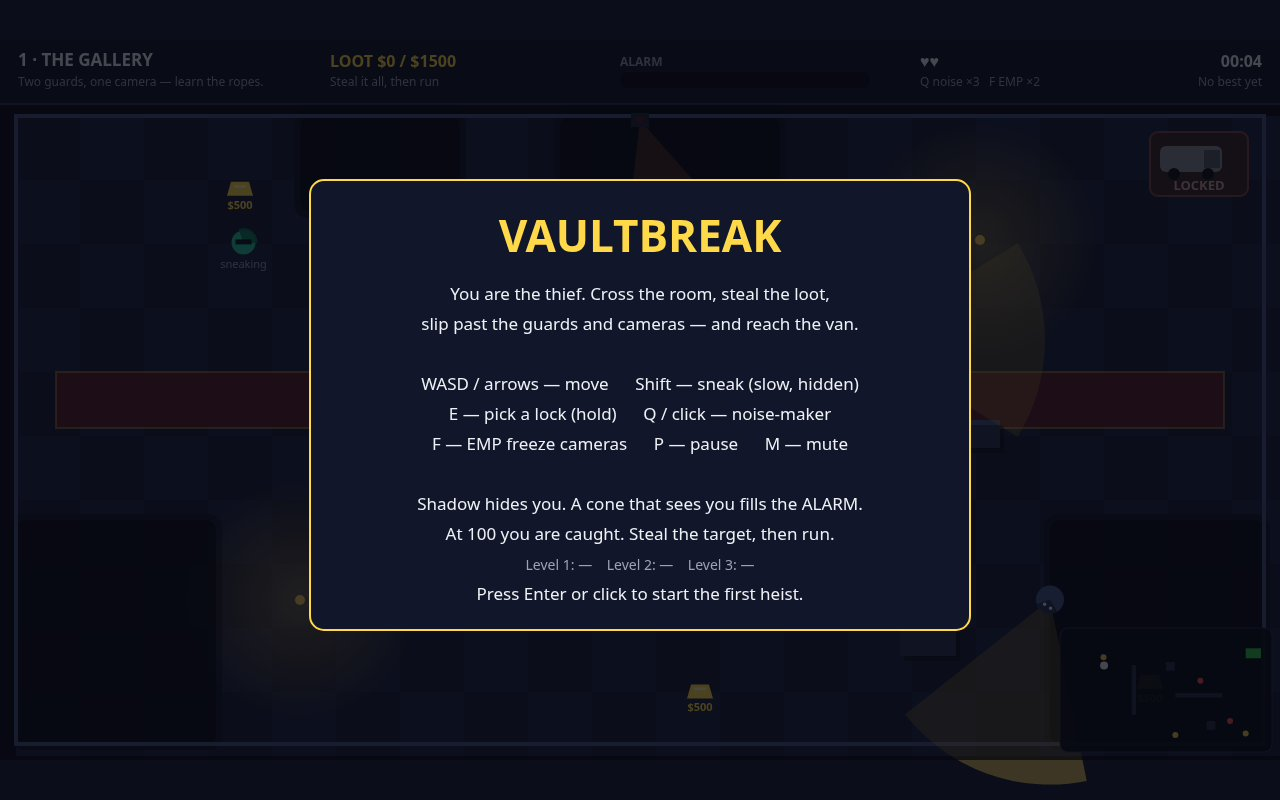
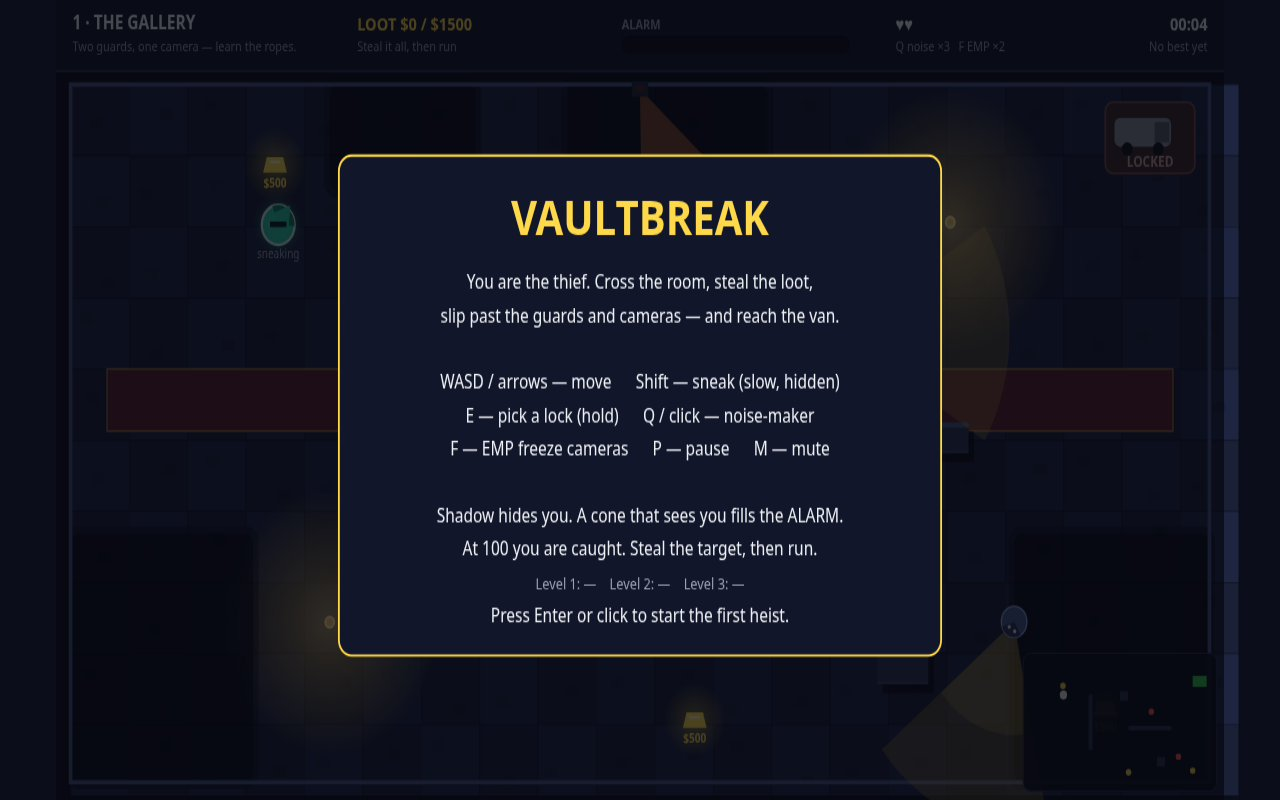
VAULTBREAK v2: polish + L3 fairness

diff --git a/game/src/render.js b/game/src/render.js
@@ -2,7 +2,7 @@
 // The 1280x720 playfield is scaled to fit the window and centred. Nothing
 // here changes the world; it only reads it.
 
-import { FIELD, ROOM, PALETTE, FONT } from './config.js';
+import { FIELD, ROOM, PALETTE, FONT, PLAYER } from './config.js';
 import { laserIsOn } from './loot.js';
 import { formatTime } from './alarm.js';
 import { pointInRect } from './geom.js';
@@ -69,13 +69,20 @@ export function createRenderer(canvas) {
 
   function drawFloor(world) {
     const level = world.level;
-    // Checkerboard stone floor.
+    // Checkerboard stone floor, with a faint grout line and a speckle of
+    // darker stone in each tile so the floor reads as texture, not flat.
     const tile = 64;
     for (let y = ROOM.y; y < ROOM.y + ROOM.height; y += tile) {
       for (let x = ROOM.x; x < ROOM.x + ROOM.width; x += tile) {
         const even = ((x - ROOM.x) / tile + (y - ROOM.y) / tile) % 2 === 0;
         ctx.fillStyle = even ? PALETTE.floor : PALETTE.floorAlt;
         ctx.fillRect(x, y, tile, tile);
+        const h = ((x * 31 + y * 17) % 97) / 97;
+        ctx.fillStyle = `rgba(0,0,0,${0.05 + h * 0.08})`;
+        ctx.fillRect(x + 8 + h * 30, y + 10 + ((x * 13 + y * 7) % 40), 14, 9);
+        ctx.strokeStyle = 'rgba(0,0,0,0.18)';
+        ctx.lineWidth = 1;
+        ctx.strokeRect(x + 0.5, y + 0.5, tile, tile);
       }
     }
     // A carpet runner down the middle of the room.
@@ -84,18 +91,25 @@ export function createRenderer(canvas) {
     ctx.strokeStyle = 'rgba(255,217,74,0.35)';
     ctx.lineWidth = 2;
     ctx.strokeRect(ROOM.x + 40, 332, ROOM.width - 80, 56);
-    // Lamp pools: warm light on the floor.
+    // Lamp pools: warm light on the floor, bright at the bulb and fading
+    // out — the warm pools are what make the dark shadow lanes read as
+    // safe by contrast.
     for (const lamp of level.lamps) {
-      const g = ctx.createRadialGradient(lamp.x, lamp.y, 8, lamp.x, lamp.y, lamp.r);
-      g.addColorStop(0, 'rgba(245,201,92,0.30)');
+      const g = ctx.createRadialGradient(lamp.x, lamp.y, 4, lamp.x, lamp.y, lamp.r);
+      g.addColorStop(0, 'rgba(255,214,110,0.55)');
+      g.addColorStop(0.45, 'rgba(245,201,92,0.30)');
       g.addColorStop(1, 'rgba(245,201,92,0)');
       ctx.fillStyle = g;
       ctx.beginPath();
       ctx.arc(lamp.x, lamp.y, lamp.r, 0, Math.PI * 2);
       ctx.fill();
+      ctx.fillStyle = '#ffe9a8';
+      ctx.beginPath();
+      ctx.arc(lamp.x, lamp.y, 6, 0, Math.PI * 2);
+      ctx.fill();
       ctx.fillStyle = PALETTE.lamp;
       ctx.beginPath();
-      ctx.arc(lamp.x, lamp.y, 5, 0, Math.PI * 2);
+      ctx.arc(lamp.x, lamp.y, 3.5, 0, Math.PI * 2);
       ctx.fill();
     }
     // Shadow patches: the safe lanes, dark and obvious.
@@ -153,6 +167,16 @@ export function createRenderer(canvas) {
       const bob = Math.sin(world.time * 2 + loot.bob) * 2;
       const x = loot.x;
       const y = loot.y + bob;
+      // A soft glow under the loot so gold, gems and the vault read as
+      // the goal from across the room.
+      const glowColor = loot.kind === 'vault' ? '155,232,255' : loot.kind === 'gem' ? '92,225,230' : '255,217,74';
+      const glow = ctx.createRadialGradient(x, y, 4, x, y, 34);
+      glow.addColorStop(0, `rgba(${glowColor},0.35)`);
+      glow.addColorStop(1, `rgba(${glowColor},0)`);
+      ctx.fillStyle = glow;
+      ctx.beginPath();
+      ctx.arc(x, y, 34, 0, Math.PI * 2);
+      ctx.fill();
       if (loot.kind === 'gold') {
         ctx.fillStyle = PALETTE.gold;
         ctx.beginPath();
@@ -263,12 +287,15 @@ export function createRenderer(canvas) {
 
   function drawWalls(world) {
     for (const w of world.level.walls) {
-      ctx.fillStyle = 'rgba(0,0,0,0.4)';
-      ctx.fillRect(w.x + 4, w.y + 5, w.w, w.h);
+      // A deeper drop shadow lifts the walls off the floor.
+      ctx.fillStyle = 'rgba(0,0,0,0.55)';
+      ctx.fillRect(w.x + 6, w.y + 8, w.w, w.h);
       ctx.fillStyle = PALETTE.wall;
       ctx.fillRect(w.x, w.y, w.w, w.h);
       ctx.fillStyle = PALETTE.wallTop;
       ctx.fillRect(w.x, w.y, w.w, 5);
+      ctx.fillStyle = 'rgba(255,255,255,0.06)';
+      ctx.fillRect(w.x, w.y + w.h - 3, w.w, 3);
     }
     // The room's outer walls.
     ctx.strokeStyle = PALETTE.wallTop;
@@ -277,12 +304,15 @@ export function createRenderer(canvas) {
   }
 
   function drawWatchers(world) {
-    // Camera cones first (under the guards), then guard cones.
+    // Camera cones first (under the guards), then guard cones. Each cone
+    // gets a brighter core near the watcher so the dangerous half of the
+    // cone reads at a glance, not just its edge.
     for (const camera of world.cameras) {
       if (camera.frozen > 0) {
         cone(camera.x, camera.y, camera.angle, 215, 0.42, '#8b93a3', 0.12);
       } else {
         cone(camera.x, camera.y, camera.angle, 215, 0.42, PALETTE.cameraCone, 0.22);
+        cone(camera.x, camera.y, camera.angle, 118, 0.42, PALETTE.cameraCone, 0.30);
       }
       ctx.fillStyle = '#22283c';
       ctx.fillRect(camera.x - 9, camera.y - 7, 18, 14);
@@ -295,11 +325,16 @@ export function createRenderer(canvas) {
       const alerted = guard.state === GUARD_ALERTED;
       const color = alerted ? PALETTE.coneAlert : PALETTE.cone;
       cone(guard.x, guard.y, guard.angle, 185, 0.55, color, alerted ? 0.34 : 0.22);
-      // The guard: navy uniform, cap, facing wedge.
+      cone(guard.x, guard.y, guard.angle, 102, 0.55, color, alerted ? 0.30 : 0.20);
+      // The guard: navy uniform, cap, facing wedge, pale outline so the
+      // figure reads against the dark floor and its own cone.
       ctx.fillStyle = PALETTE.guard;
       ctx.beginPath();
       ctx.arc(guard.x, guard.y, 14, 0, Math.PI * 2);
       ctx.fill();
+      ctx.strokeStyle = '#8fa3d9';
+      ctx.lineWidth = 1.5;
+      ctx.stroke();
       ctx.fillStyle = PALETTE.guardDark;
       ctx.beginPath();
       ctx.arc(guard.x, guard.y, 14, guard.angle - 0.9, guard.angle + 0.9);
@@ -327,10 +362,14 @@ export function createRenderer(canvas) {
     const dog = world.dog;
     if (dog) {
       cone(dog.x, dog.y, dog.angle, 130, 0.7, '#d98a3d', 0.22);
+      cone(dog.x, dog.y, dog.angle, 72, 0.7, '#d98a3d', 0.20);
       ctx.fillStyle = PALETTE.dog;
       ctx.beginPath();
       ctx.arc(dog.x, dog.y, 11, 0, Math.PI * 2);
       ctx.fill();
+      ctx.strokeStyle = '#e8b07a';
+      ctx.lineWidth = 1.5;
+      ctx.stroke();
       ctx.beginPath();
       ctx.arc(dog.x - 7, dog.y - 7, 4, 0, Math.PI * 2);
       ctx.arc(dog.x + 7, dog.y - 7, 4, 0, Math.PI * 2);
@@ -358,32 +397,53 @@ export function createRenderer(canvas) {
       ctx.textAlign = 'center';
       ctx.fillText('♪', puck.x, puck.y - 12);
     }
-    // The thief: hooded, teal, facing where he moves.
+    // The thief: a hooded figure in bright teal, bigger than before and
+    // ringed in pale light so he is the first thing the eye finds, even
+    // in shadow. A pointed hood in the facing direction, dark visor slit.
+    const R = PLAYER.radius;
     ctx.save();
     if (p.sneak) ctx.globalAlpha = 0.92;
+    ctx.shadowColor = 'rgba(45,212,167,0.55)';
+    ctx.shadowBlur = 12;
     ctx.fillStyle = PALETTE.player;
     ctx.beginPath();
-    ctx.arc(p.x, p.y, p.sneak ? 12 : 14, 0, Math.PI * 2);
+    ctx.arc(p.x, p.y, R, 0, Math.PI * 2);
     ctx.fill();
+    ctx.shadowBlur = 0;
+    ctx.strokeStyle = '#d9fff2';
+    ctx.lineWidth = 2.5;
+    ctx.stroke();
     ctx.fillStyle = PALETTE.playerDark;
     ctx.beginPath();
-    ctx.arc(p.x, p.y, 14, p.angle - 1.0, p.angle + 1.0);
+    ctx.arc(p.x, p.y, R, p.angle - 1.0, p.angle + 1.0);
     ctx.lineTo(p.x, p.y);
     ctx.fill();
+    // Hood peak pointing where he moves.
+    ctx.fillStyle = PALETTE.player;
+    ctx.beginPath();
+    const hx = p.x + Math.cos(p.angle) * (R + 4);
+    const hy = p.y + Math.sin(p.angle) * (R + 4);
+    const px = -Math.sin(p.angle);
+    const py = Math.cos(p.angle);
+    ctx.moveTo(hx, hy);
+    ctx.lineTo(p.x + px * (R - 4), p.y + py * (R - 4));
+    ctx.lineTo(p.x - px * (R - 4), p.y - py * (R - 4));
+    ctx.closePath();
+    ctx.fill();
     ctx.fillStyle = '#0b0e1a';
-    ctx.fillRect(p.x - 8, p.y - 3, 16, 5);
+    ctx.fillRect(p.x - 9, p.y - 3, 18, 5);
     ctx.restore();
     if (hidden) {
       ctx.fillStyle = '#9be8ff';
       ctx.font = `bold 11px ${FONT}`;
       ctx.textAlign = 'center';
-      ctx.fillText('HIDDEN', p.x, p.y - 22);
+      ctx.fillText('HIDDEN', p.x, p.y - R - 8);
     }
     if (p.sneak) {
       ctx.fillStyle = PALETTE.muted;
       ctx.font = `11px ${FONT}`;
       ctx.textAlign = 'center';
-      ctx.fillText('sneaking', p.x, p.y + 26);
+      ctx.fillText('sneaking', p.x, p.y + R + 12);
     }
   }
 

diff --git a/main.ts b/main.ts
@@ -1,6 +1,6 @@
-// VAULTBREAK's hand-in: the game is the plain static files in game/ next
-// to this file (index.html plus ES modules, no library, no network), and
-// the screenshots are the real renders in screenshots/. This program hands
+// VAULTBREAK's hand-in: the game is the plain static files in game/
+// (index.html plus ES modules, no library, no network), and the
+// screenshots are the real renders in screenshots/. This program hands
 // both in: it copies game/ and screenshots/ to /output and writes
 // /output/dossier.json, the summary the judge reads, with the vendored
 // make.fun library. Outside the grader, MAKEFUN_OUTPUT_DIR stands in for
@@ -16,23 +16,31 @@ import { buildDossier } from './vendor/makefun-game.ts';
 const here = fileURLToPath(new URL('.', import.meta.url));
 const out = process.env.MAKEFUN_OUTPUT_DIR ?? '/output';
 
-mkdirSync(out, { recursive: true });
-cpSync(join(here, 'game'), join(out, 'game'), { recursive: true });
-mkdirSync(join(out, 'screenshots'), { recursive: true });
-if (existsSync(join(here, 'screenshots'))) {
-  cpSync(join(here, 'screenshots'), join(out, 'screenshots'), { recursive: true });
-}
-
 // The scorer's own caps: at most 4 screenshots, each at most 256 KiB;
 // game/ at most 993 files and 48 MiB in all, no path over 1000 bytes —
 // the dossier refuses an entry the scorer would refuse.
-writeFileSync(
-  join(out, 'dossier.json'),
-  buildDossier(out, {
-    text_max_bytes: 163840,
-    screenshots: { max: 4, max_bytes: 262144 },
-    game_max_files: 993,
-    game_max_bytes: 50331648,
-    game_path_max_bytes: 1000,
-  }),
-);
+const DOSSIER_LIMITS = {
+  text_max_bytes: 163840,
+  screenshots: { max: 4, max_bytes: 262144 },
+  game_max_files: 993,
+  game_max_bytes: 50331648,
+  game_path_max_bytes: 1000,
+};
+
+/** Hand the entry in: copy the game and the screenshots, then write the
+ *  dossier the judge reads. Pure file work — no network, no build. */
+function main() {
+  mkdirSync(out, { recursive: true });
+  cpSync(join(here, 'game'), join(out, 'game'), { recursive: true });
+  mkdirSync(join(out, 'screenshots'), { recursive: true });
+  if (existsSync(join(here, 'screenshots'))) {
+    cpSync(join(here, 'screenshots'), join(out, 'screenshots'), { recursive: true });
+  }
+
+  writeFileSync(
+    join(out, 'dossier.json'),
+    buildDossier(out, DOSSIER_LIMITS),
+  );
+}
+
+main();

diff --git a/game/src/config.js b/game/src/config.js
@@ -11,7 +11,10 @@ export const ROOM = { x: 16, y: 76, width: 1248, height: 628 };
 export const STEP = 1 / 60;
 
 export const PLAYER = {
-  radius: 14,
+  // Big enough to read at a glance in a 1280x720 thumbnail: the thief is
+  // the one figure the eye must find first. Touch checks use fixed radii
+  // elsewhere, so this only changes wall collision and the drawing.
+  radius: 18,
   walkSpeed: 175,
   sneakSpeed: 98,
   // Running footsteps are heard this far away by guards and the dog.
@@ -27,7 +30,11 @@ export const GUARD = {
   suspiciousSpeed: 105,
   chaseSpeed: 152,
   // Alarm points per second of full exposure, standing in the light.
-  alarmRate: 72,
+  // A touch slower than before (72): the Vault floor's busts all came
+  // from the meter hitting 100 mid-chase in the open, before the thief
+  // could break line of sight. This is escape margin, not a free pass —
+  // a full stare still busts you in about a second and a half.
+  alarmRate: 64,
   touchRadius: 24,
 };
 
@@ -40,7 +47,10 @@ export const CAMERA = {
 export const DOG = {
   range: 130,
   halfAngle: 0.7,
-  patrolSpeed: 128,
+  // A touch slower on patrol than before (128): the bottom lane's gem run
+  // was phase-sensitive and cost the pilot a heart on one seed. The chase
+  // speed is unchanged, so the dog is still dangerous once it spots you.
+  patrolSpeed: 115,
   chaseSpeed: 190,
   alarmRate: 95,
   hearRadius: 280,

diff --git a/game/src/levels.js b/game/src/levels.js
@@ -106,7 +106,11 @@ export const LEVELS = [
     ],
     shadows: [
       { x: 16, y: 76, w: 170, h: 120 },
-      { x: 400, y: 580, w: 200, h: 124 },
+      // Widened (was x 400 w 200): the bottom lane runs under the dog's
+      // patrol and the gem at (520,640) sits in it, so the pocket the
+      // thief waits in while the dog passes is now a real pocket, not a
+      // strip the dog's cone clips.
+      { x: 360, y: 580, w: 280, h: 124 },
       { x: 720, y: 76, w: 180, h: 100 },
       { x: 1040, y: 560, w: 224, h: 144 },
       { x: 1040, y: 76, w: 120, h: 90 },
